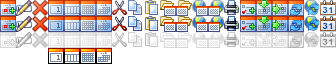
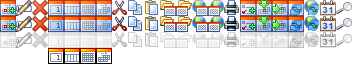
Bug 402177 - Add functionality for hiding the unifinder easily, r=philipp, ui-r=christian

diff --git a/calendar/sunbird/themes/winstripe/sunbird/calendar.css b/calendar/sunbird/themes/winstripe/sunbird/calendar.css
@@ -27,6 +27,7 @@
 #                 ArentJan Banck <ajbanck@planet.nl>
 #                 Eric Belhaire <belhaire@ief.u-psud.fr>
 #                 Mark Swaffer <swaff@fudo.org>
+#                 Simon Paquet <bugzilla@babylonsounds.com>
 #                 Christopher Cook <tangent@intraplanar.net>
 #                 Kevin Gerich <webmail@kmgerich.com>
 #                 Matthew Willis <mattwillis@gmail.com>
@@ -202,6 +203,42 @@ toolbar[iconsize="small"] #calendar-go-to-today-button[disabled="true"]:hover:ac
 }
 toolbar[iconsize="small"] #calendar-go-to-today-button:hover {
         -moz-image-region: rect(16px 272px 32px 256px);
+}
+
+/*--------------------------------------------------------------------
+ *   Unifinder button
+ *-------------------------------------------------------------------*/
+
+#calendar-unifinder-button {
+        -moz-image-region: rect(0px 528px 24px 504px);
+}
+#calendar-unifinder-button[disabled="true"],
+#calendar-unifinder-button[disabled="true"]:hover,
+#calendar-unifinder-button[disabled="true"]:hover:active {
+        -moz-image-region: rect(48px 528px 72px 504px);
+}
+#calendar-unifinder-button:hover {
+        -moz-image-region: rect(24px 528px 48px 504px);
+}
+#calendar-unifinder-button:hover:active {
+}
+
+/*--------------------------------------------------------------------
+ *   Unifinder button - small
+ *-------------------------------------------------------------------*/
+
+toolbar[iconsize="small"] #calendar-unifinder-button {
+        -moz-image-region: rect(0px 352px 16px 336px);
+}
+toolbar[iconsize="small"] #calendar-unifinder-button[disabled="true"],
+toolbar[iconsize="small"] #calendar-unifinder-button[disabled="true"]:hover,
+toolbar[iconsize="small"] #calendar-unifinder-button[disabled="true"]:hover:active {
+        -moz-image-region: rect(32px 352px 48px 336px);
+}
+toolbar[iconsize="small"] #calendar-unifinder-button:hover {
+        -moz-image-region: rect(16px 352px 32px 336px);
+}
+toolbar[iconsize="small"] #calendar-unifinder-button:hover:active {
 }
 
 /*--------------------------------------------------------------------

diff --git a/calendar/base/themes/winstripe/calendar-toolbar.css b/calendar/base/themes/winstripe/calendar-toolbar.css
@@ -215,7 +215,6 @@ toolbar[iconsize="small"] #calendar-go-to-today-button:hover {
 toolbar[iconsize="small"] #calendar-go-to-today-button:hover:active {
 }
 
-
 /*--------------------------------------------------------------------
  *   Show TodayPane button
  *-------------------------------------------------------------------*/
@@ -252,7 +251,41 @@ toolbar[iconsize="small"] #calendar-show-todaypane-button:hover {
 toolbar[iconsize="small"] #calendar-show-todaypane-button:hover:active {
 }
 
+/*--------------------------------------------------------------------
+ *   Unifinder button
+ *-------------------------------------------------------------------*/
 
+#calendar-unifinder-button {
+        -moz-image-region: rect(0px 528px 24px 504px);
+}
+#calendar-unifinder-button[disabled="true"],
+#calendar-unifinder-button[disabled="true"]:hover,
+#calendar-unifinder-button[disabled="true"]:hover:active {
+        -moz-image-region: rect(48px 528px 72px 504px);
+}
+#calendar-unifinder-button:hover {
+        -moz-image-region: rect(24px 528px 48px 504px);
+}
+#calendar-show-unifinder-button:hover:active {
+}
+
+/*--------------------------------------------------------------------
+ *   Unifinder button - small
+ *-------------------------------------------------------------------*/
+
+toolbar[iconsize="small"] #calendar-unifinder-button {
+        -moz-image-region: rect(0px 352px 16px 336px);
+}
+toolbar[iconsize="small"] #calendar-unifinder-button[disabled="true"],
+toolbar[iconsize="small"] #calendar-unifinder-button[disabled="true"]:hover,
+toolbar[iconsize="small"] #calendar-unifinder-button[disabled="true"]:hover:active {
+        -moz-image-region: rect(32px 352px 48px 336px);
+}
+toolbar[iconsize="small"] #calendar-unifinder-button:hover {
+        -moz-image-region: rect(16px 352px 32px 336px);
+}
+toolbar[iconsize="small"] #calendar-unifinder-button:hover:active {
+}
 
 /*--------------------------------------------------------------------
  *   Choose date button

diff --git a/calendar/sunbird/themes/pinstripe/sunbird/calendar.css b/calendar/sunbird/themes/pinstripe/sunbird/calendar.css
@@ -25,6 +25,7 @@
 #                 Karl Guertin <grayrest@grayrest.com>
 #                 Colin Phillips <colinp@oeone.com>
 #                 ArentJan Banck <ajbanck@planet.nl>
+#                 Simon Paquet <bugzilla@babylonsounds.com>
 #                 Eric Belhaire <belhaire@ief.u-psud.fr>
 #                 Mark Swaffer <swaff@fudo.org>
 #                 Christopher Cook <tangent@intraplanar.net>
@@ -299,6 +300,30 @@ toolbar[iconsize="small"] #calendar-day-view-button:active {
 toolbar[iconsize="small"] #calendar-day-view-button:hover:active,
 toolbar[iconsize="small"] #calendar-day-view-button[checked="true"] {
     -moz-image-region: rect(72px 96px 96px 72px);
+}
+
+/*--------------------------------------------------------------------
+ *   Unifinder button
+ *-------------------------------------------------------------------*/
+
+#calendar-unifinder-button {
+        -moz-image-region: rect(0px 704px 32px 672px);
+}
+#calendar-unifinder-button:active {
+        -moz-image-region: rect(32px 704px 64px 672px);
+}
+#calendar-unifinder-button[disabled="true"] {
+        -moz-image-region: rect(64px 704px 96px 672px);
+}
+
+toolbar[iconsize="small"] #calendar-unifinder-button {
+        -moz-image-region: rect(0px 528px 24px 504px);
+}
+toolbar[iconsize="small"] #calendar-unifinder-button:active {
+        -moz-image-region: rect(24px 528px 48px 504px);
+}
+toolbar[iconsize="small"] #calendar-unifinder-button[disabled="true"] {
+        -moz-image-region: rect(48px 528px 72px 504x);
 }
 
 /*--------------------------------------------------------------------

diff --git a/calendar/base/themes/pinstripe/calendar-toolbar.css b/calendar/base/themes/pinstripe/calendar-toolbar.css
@@ -166,7 +166,29 @@ toolbar[iconsize="small"] #calendar-go-to-today-button[disabled="true"] {
         -moz-image-region: rect(48px 408px 72px 384px);
 }
 
+/*--------------------------------------------------------------------
+ *   Unifinder button
+ *-------------------------------------------------------------------*/
 
+#calendar-unifinder-button {
+        -moz-image-region: rect(0px 704px 32px 672px);
+}
+#calendar-unifinder-button:active {
+        -moz-image-region: rect(32px 704px 64px 672px);
+}
+#calendar-unifinder-button[disabled="true"] {
+        -moz-image-region: rect(64px 704px 96px 672px);
+}
+
+toolbar[iconsize="small"] #calendar-unifinder-button {
+        -moz-image-region: rect(0px 528px 24px 504px);
+}
+toolbar[iconsize="small"] #calendar-unifinder-button:active {
+        -moz-image-region: rect(24px 528px 48px 504px);
+}
+toolbar[iconsize="small"] #calendar-unifinder-button[disabled="true"] {
+        -moz-image-region: rect(48px 528px 72px 504x);
+}
 
 /*--------------------------------------------------------------------
  *   Show Today-Pane button
@@ -191,8 +213,6 @@ toolbar[iconsize="small"] #calendar-show-todaypane-button:active {
 toolbar[iconsize="small"] #calendar-show-todaypane-button[disabled="true"] {
         -moz-image-region: rect(48px 504px 72px 480x);
 }
-
-
 
 /*--------------------------------------------------------------------
  *   Button: "Choose Date"

diff --git a/calendar/base/themes/pinstripe/calendar-unifinder.css b/calendar/base/themes/pinstripe/calendar-unifinder.css
@@ -31,6 +31,7 @@
  *   Matthew Willis <mattwillis@gmail.com>
  *   Michael Buettner <michael.buettner@sun.com>
  *   Philipp Kewisch <mozilla@kewis.ch>
+ *   Simon Paquet <bugzilla@babylonsounds.com>
  *
  * Alternatively, the contents of this file may be used under the terms of
  * either the GNU General Public License Version 2 or later (the "GPL"), or
@@ -90,4 +91,20 @@
     border-top: 1px solid ThreeDHighlight;
     height: 30px;
     background-color: transparent;
+}
+
+.unifinder-closebutton {
+  list-style-image: url("chrome://global/skin/icons/closetab.png");
+}
+
+.unifinder-closebutton:hover {
+  list-style-image: url("chrome://global/skin/icons/closetab-hover.png");
+}
+
+.unifinder-closebutton:hover:active {
+  list-style-image: url("chrome://global/skin/icons/closetab-active.png");
+}
+
+.unifinder-closebutton > .toolbarbutton-text {
+   display: none;
 }

diff --git a/calendar/base/themes/winstripe/calendar-unifinder.css b/calendar/base/themes/winstripe/calendar-unifinder.css
@@ -31,6 +31,7 @@
  *   Matthew Willis <mattwillis@gmail.com>
  *   Michael Buettner <michael.buettner@sun.com>
  *   Philipp Kewisch <mozilla@kewis.ch>
+ *   Simon Paquet <bugzilla@babylonsounds.com>
  *
  * Alternatively, the contents of this file may be used under the terms of
  * either the GNU General Public License Version 2 or later (the "GPL"), or
@@ -90,4 +91,20 @@
     border-top: 1px solid ThreeDHighlight;
     height: 30px;
     background-color: transparent;
+}
+
+.unifinder-closebutton {
+  list-style-image: url("chrome://global/skin/icons/close.png");
+  -moz-image-region: rect(0 16px 16px 0);
+  -moz-appearance: none;
+  border: none;
+  padding: 2px;
+}
+
+.unifinder-closebutton:hover {
+  -moz-image-region: rect(0 32px 16px 16px);
+}
+
+.unifinder-closebutton:hover:active {
+  -moz-image-region: rect(0 48px 16px 32px);
 }
